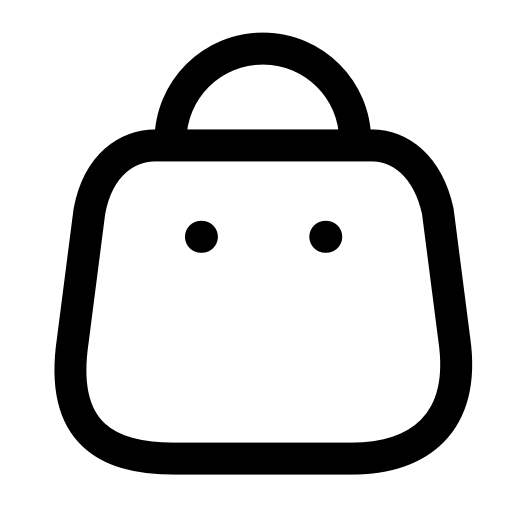
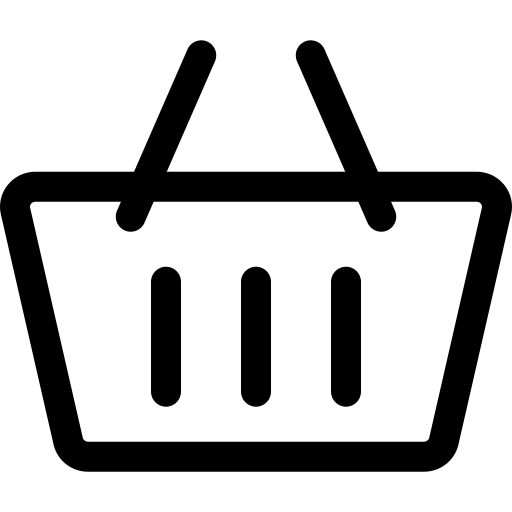
update

diff --git a/src/components/CartProduct.js/PaymentProduct/PaymentProduct.js b/src/components/CartProduct.js/PaymentProduct/PaymentProduct.js
@@ -3,6 +3,7 @@ import React, { useEffect, useState } from "react";
 import authHeader from "../../../service/AuthHeader.js";
 import "./PaymentProduct.css";
 import { getCurrentIdUser } from "../../../service/AuthService.js";
+import { toast } from "react-toastify";
 
 const PaymentProduct = ({ data }) => {
 	const idUser = getCurrentIdUser();
@@ -34,6 +35,18 @@ const PaymentProduct = ({ data }) => {
 			return 0;
 		}
 	};
+
+	const urlPaypal = `${process.env.REACT_APP_API_LOCAL}/api/v1/pay/id`;
+
+	const paypal = () => {
+		axios
+			.post(urlPaypal, {}, { headers: authHeader() })
+			.then((res) => {
+				toast.success("success !!!");
+			})
+			.catch((err) => toast.error("faild"));
+	};
+
 	return (
 		<div className="form-payment">
 			<div className="desc-order-user">
@@ -56,7 +69,7 @@ const PaymentProduct = ({ data }) => {
 				</div>
 			</div>
 			<div className="btn-payment-price">
-				<button>Thanh Toán</button>
+				<button onClick={paypal}>Thanh Toán</button>
 			</div>
 		</div>
 	);

diff --git a/public/index.html b/public/index.html
@@ -2,7 +2,11 @@
 <html lang="en">
 	<head>
 		<meta charset="utf-8" />
-		<link rel="icon" href="%PUBLIC_URL%/favicon.ico" />
+		<!-- <link rel="icon" href="%PUBLIC_URL%/favicon.ico" /> -->
+		<link
+			rel="icon"
+			href="https://cdn-icons-png.flaticon.com/512/869/869636.png"
+		/>
 		<meta name="viewport" content="width=device-width, initial-scale=1" />
 		<meta name="theme-color" content="#000000" />
 		<meta
@@ -36,7 +40,7 @@
       work correctly both with client-side routing and a non-root public URL.
       Learn how to configure a non-root public URL by running `npm run build`.
     -->
-		<title>React App</title>
+		<title>Shop Computer</title>
 	</head>
 	<body>
 		<noscript>You need to enable JavaScript to run this app.</noscript>

diff --git a/src/components/CartProduct.js/CartTable/CartTable.js b/src/components/CartProduct.js/CartTable/CartTable.js
@@ -23,9 +23,9 @@ const CartTable = () => {
 			axios
 				.get(urlCart, { headers: authHeader() })
 				.then((res) => {
-					setDataUser(res.data.data.doc.cart);
-					setDataCart(res.data.data.doc.cart.items);
-					console.log("xem: ", res.data.data.doc.cart.items);
+					setDataUser(res.data.data.doc);
+					setDataCart(res.data.data.doc.items);
+					console.log("xem: ", res.data.data.doc.items);
 				})
 				.catch((err) => console.log(err));
 		};

diff --git a/src/components/CartProduct.js/CartTable/ModalDeleteItem.js b/src/components/CartProduct.js/CartTable/ModalDeleteItem.js
@@ -8,7 +8,7 @@ const ModalDeleteItem = ({ data, setModalIsOpen }) => {
 	const urlDelete = `${process.env.REACT_APP_API_LOCAL}/api/v1/cart/deleteFromCart`;
 	const onDelete = () => {
 		axios
-			.post(urlDelete, { productId: data._id }, { headers: authHeader() })
+			.post(urlDelete, { productId: data }, { headers: authHeader() })
 			.then((res) => {
 				toast.success("delete success !!!");
 				window.location.reload();

diff --git a/src/components/Category/HeaderProduct/HeaderProduct.js b/src/components/Category/HeaderProduct/HeaderProduct.js
@@ -24,8 +24,8 @@ const HeaderProduct = () => {
 				axios
 					.get(urlCart, { headers: authHeader() })
 					.then((res) => {
-						setDataUser(res.data.data.doc.cart.items);
-						console.log("header: ", res.data.data.doc.cart.items);
+						setDataUser(res.data.data.doc.items);
+						console.log("header: ", res.data.data.doc);
 					})
 					.catch((err) => console.log(err));
 			}
